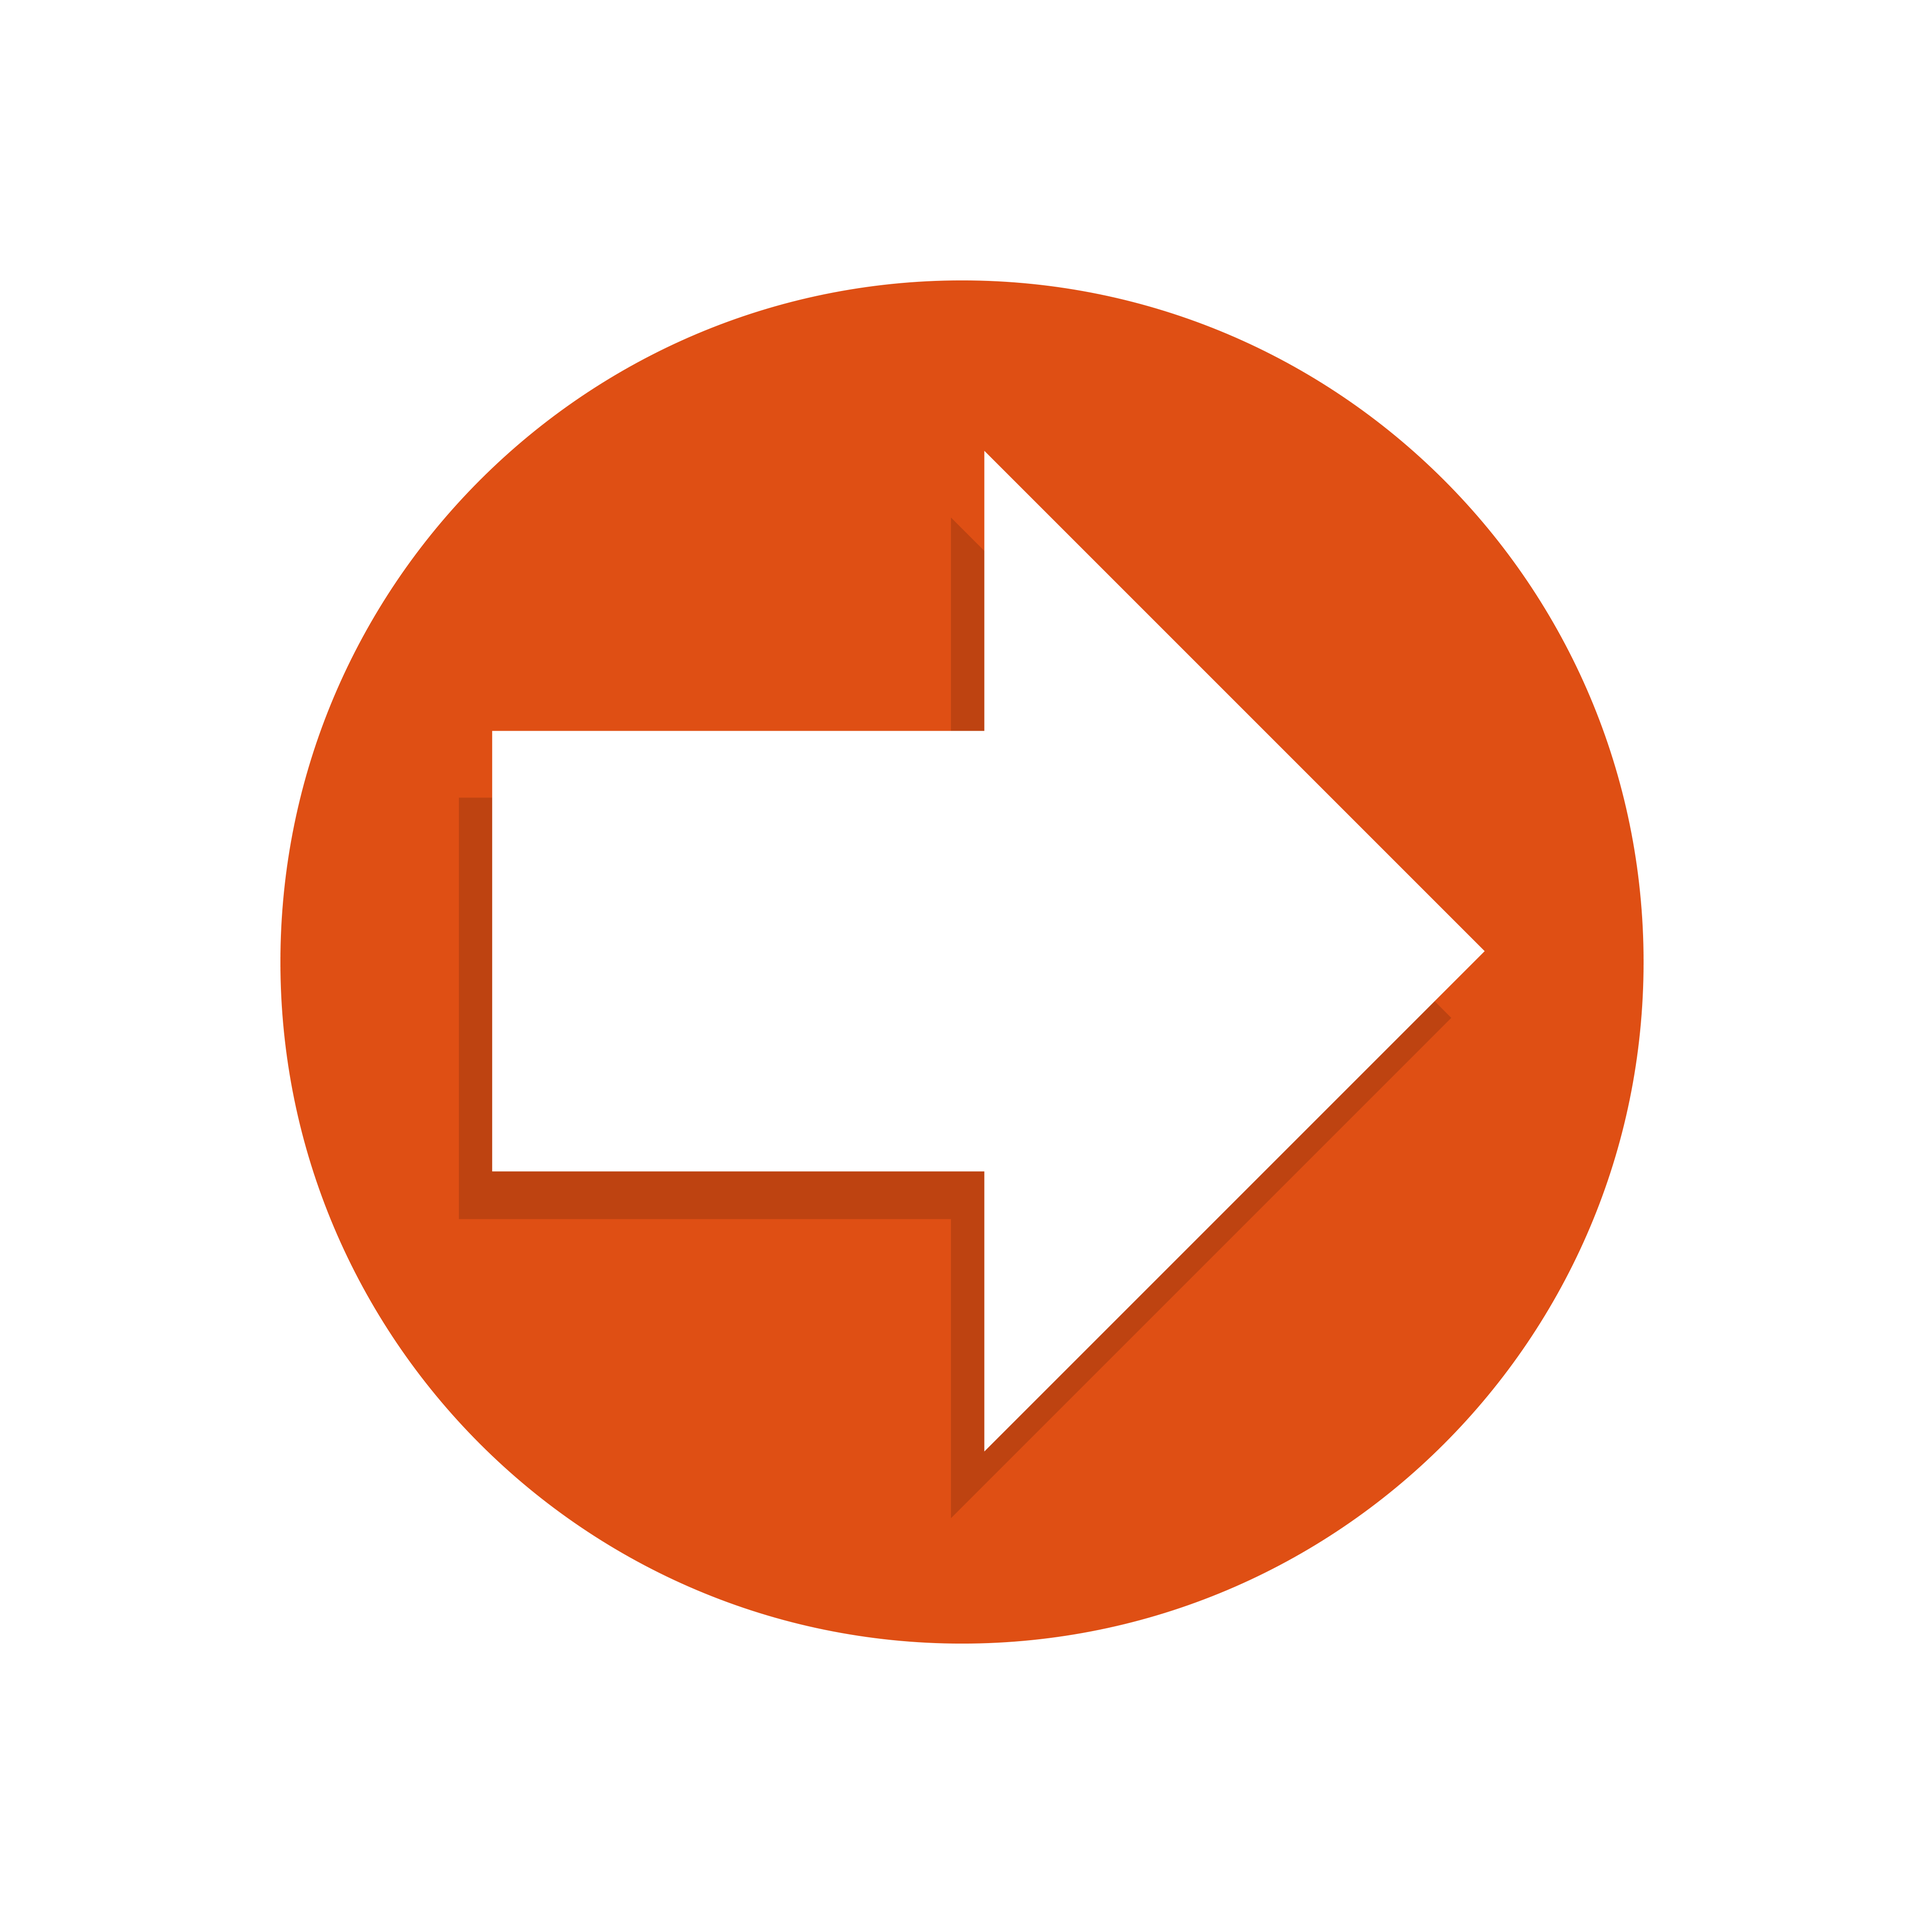
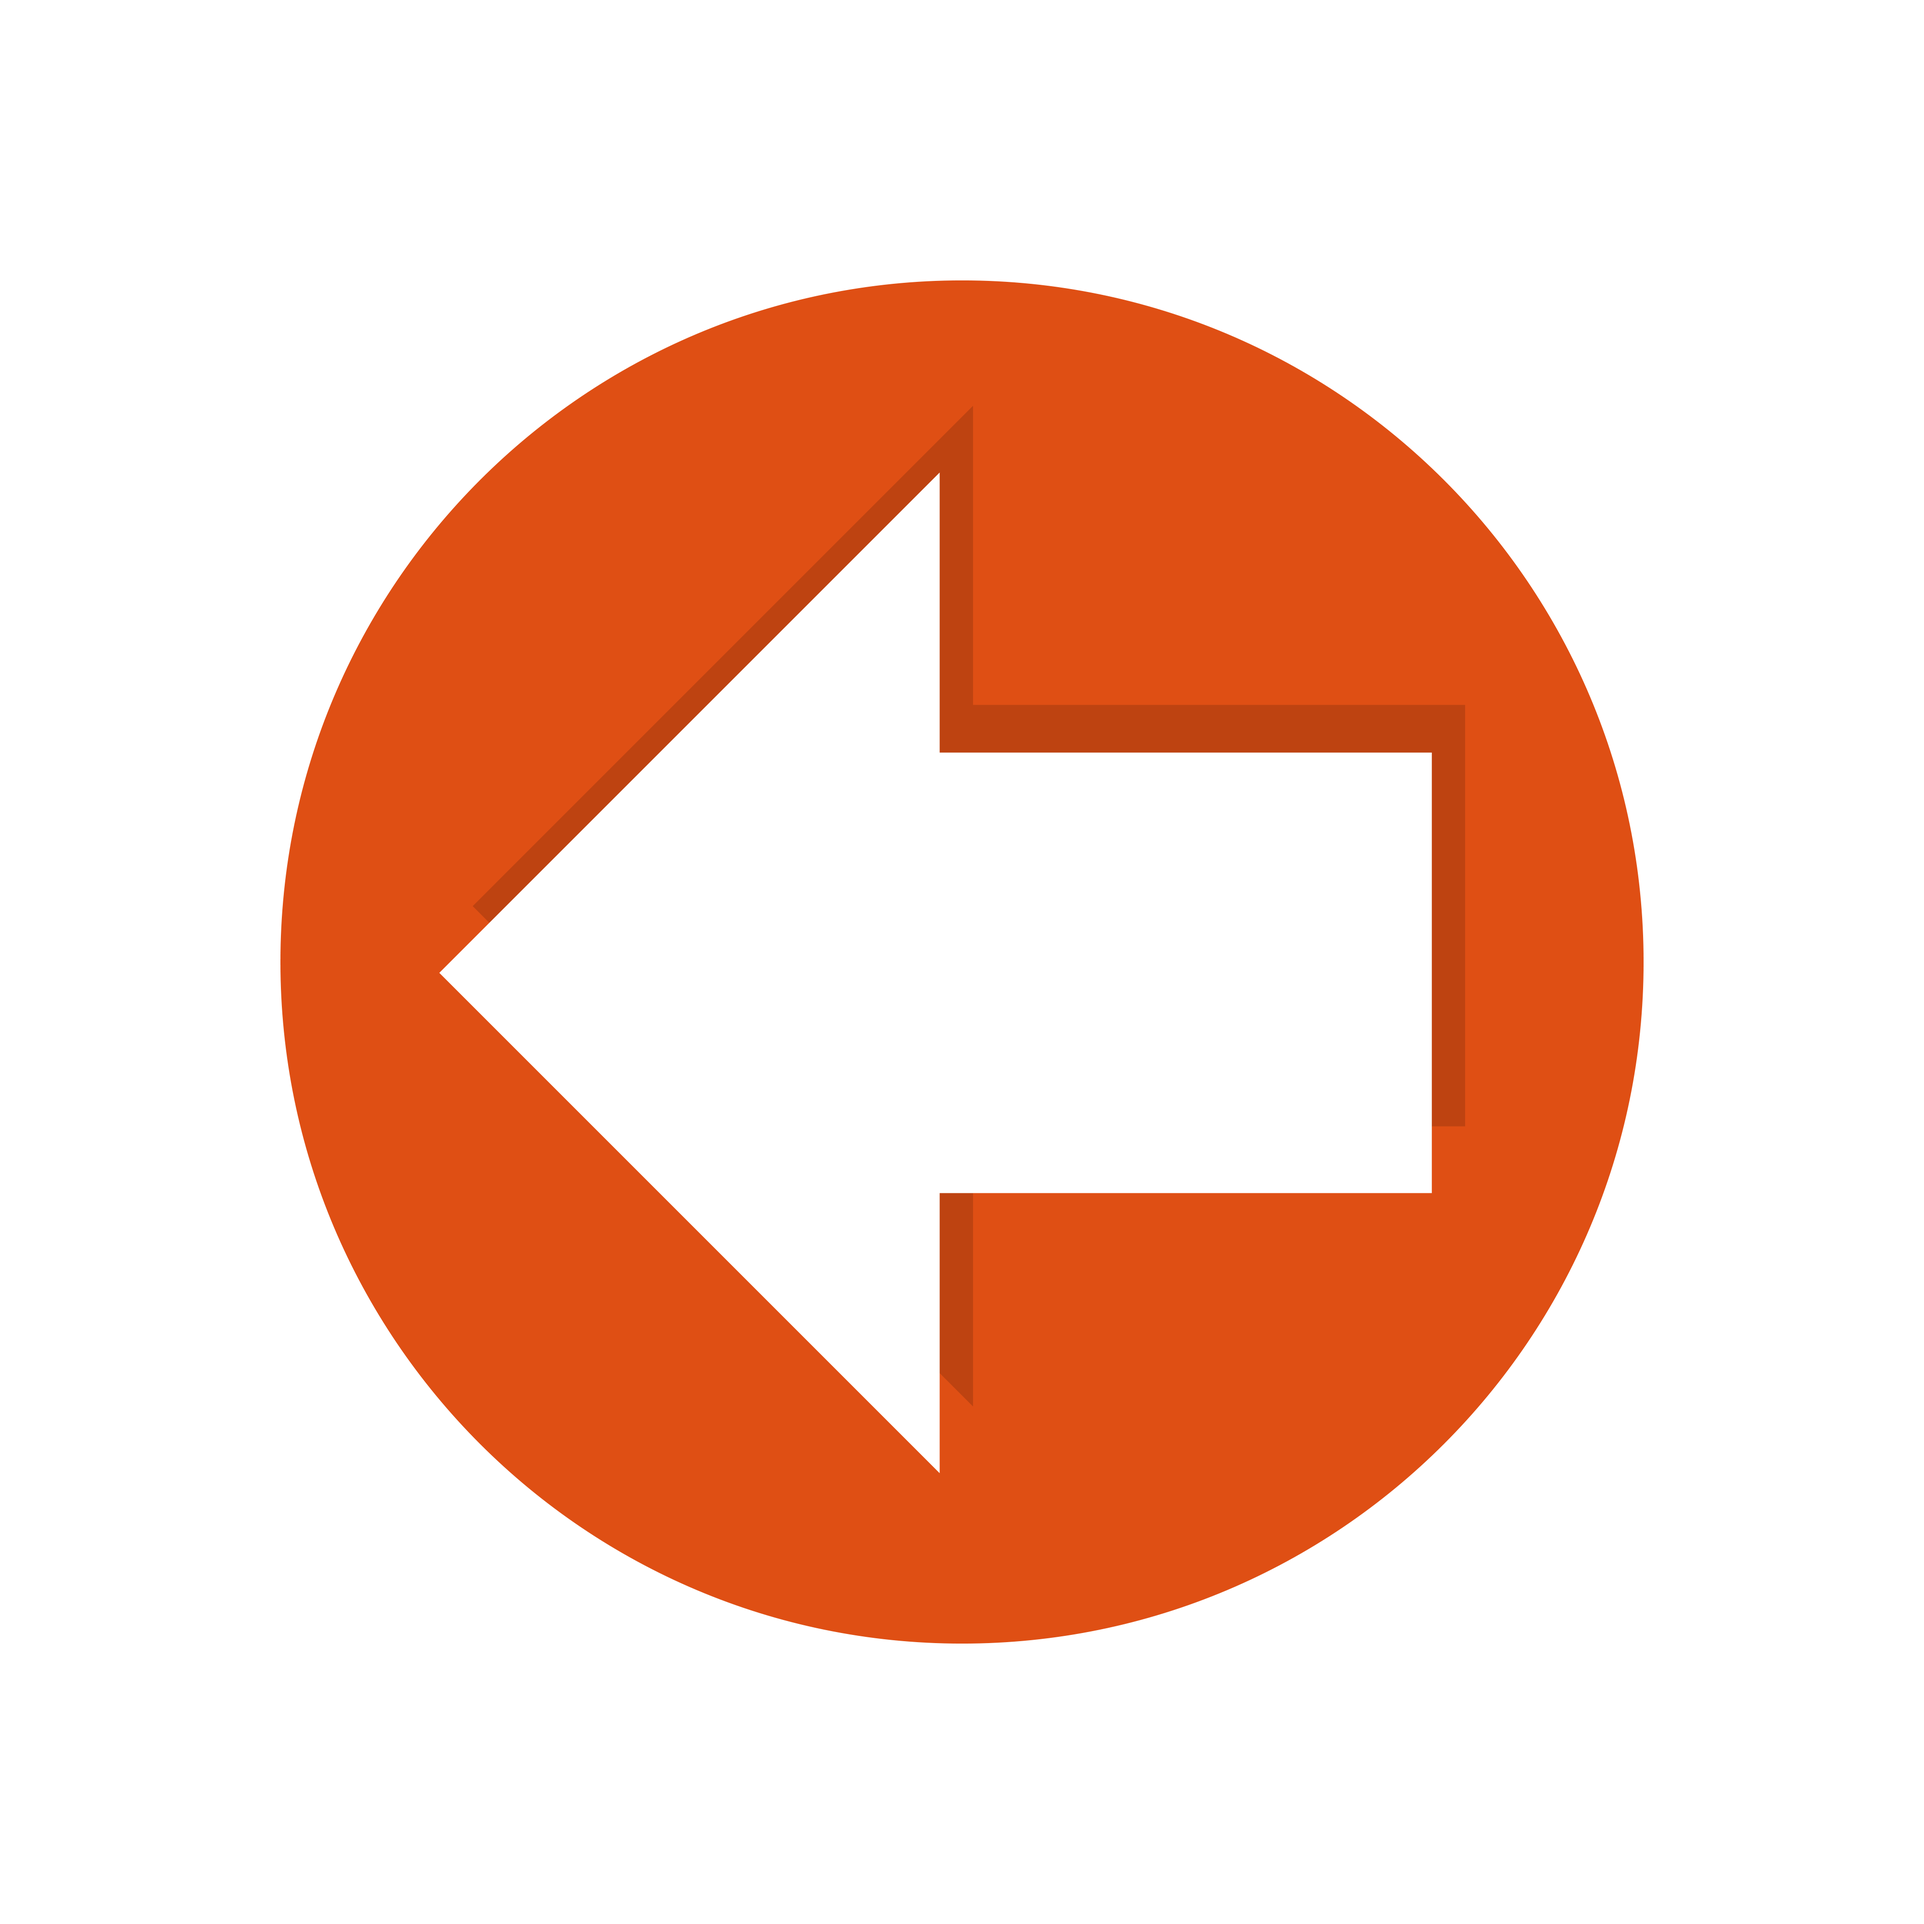
add arrows

Changed region(s): [[0.2188, 0.2188, 0.7812, 0.7812]]

diff --git a/src/main/resources/database/bookstore/style.css b/src/main/resources/database/bookstore/style.css
@@ -77,6 +77,12 @@
 .sign{
     -fx-font-size:14;
 }
+
+.page{
+    -fx-font-size:18;
+    -fx-font-family: "Stencil";
+    /*-fx-text-fill:#e0e5de;*/
+}
 .image-view{
    -fx-cursor: hand;
 }

diff --git a/src/main/java/database/bookstore/viewController/AdminPanelController.java b/src/main/java/database/bookstore/viewController/AdminPanelController.java
@@ -12,6 +12,7 @@ import javafx.fxml.FXML;
 import javafx.scene.Node;
 import javafx.scene.control.*;
 import javafx.scene.control.cell.PropertyValueFactory;
+import javafx.scene.text.Text;
 import javafx.stage.Stage;
 
 import java.io.IOException;
@@ -83,7 +84,8 @@ public class AdminPanelController {
     private TableColumn<User, Boolean> userTableIsManager;
 
     private boolean isAddMood = true;
-
+    @FXML
+    private Text Page;
     @FXML
     public void initialize() {
         orderTableOrderId.setCellValueFactory(new PropertyValueFactory<>("ID"));
@@ -287,6 +289,27 @@ public class AdminPanelController {
         }
     }
 
+    @FXML
+    protected void onLeftArrowClick() {
+        try {
+            int page = Integer.parseInt(Page.getText());
+            Page.setText(String.valueOf(page == 1 ? 1:page-1));
+        } catch (Exception e) {
+            Alert alert = new Alert(Alert.AlertType.ERROR, e.getMessage(), ButtonType.OK);
+            alert.showAndWait();
+        }
+    }
+
+    @FXML
+    protected void onRightArrowClick() {
+        try {
+            int page = Integer.parseInt(Page.getText());
+            Page.setText(String.valueOf(page+1));
+        } catch (Exception e) {
+            Alert alert = new Alert(Alert.AlertType.ERROR, e.getMessage(), ButtonType.OK);
+            alert.showAndWait();
+        }
+    }
 
     public void changeMood(boolean isAddMood, Book b) {
         if (isAddMood) {

diff --git a/src/main/java/database/bookstore/viewController/HomeController.java b/src/main/java/database/bookstore/viewController/HomeController.java
@@ -42,6 +42,8 @@ public class HomeController {
     private TableColumn<Book, String> Authors;
     @FXML
     private TableColumn<Book, String> Year;
+    @FXML
+    private Text Page;
 
     @FXML
     public void initialize() throws SQLException {
@@ -171,6 +173,28 @@ public class HomeController {
             stage.setResizable(false);
             stage.show();
             ((Stage) ((Node) (event.getSource())).getScene().getWindow()).close();
+        } catch (Exception e) {
+            Alert alert = new Alert(Alert.AlertType.ERROR, e.getMessage(), ButtonType.OK);
+            alert.showAndWait();
+        }
+    }
+
+    @FXML
+    protected void onLeftArrowClick() {
+        try {
+            int page = Integer.parseInt(Page.getText());
+            Page.setText(String.valueOf(page == 1 ? 1:page-1));
+        } catch (Exception e) {
+            Alert alert = new Alert(Alert.AlertType.ERROR, e.getMessage(), ButtonType.OK);
+            alert.showAndWait();
+        }
+    }
+
+    @FXML
+    protected void onRightArrowClick() {
+        try {
+            int page = Integer.parseInt(Page.getText());
+            Page.setText(String.valueOf(page+1));
         } catch (Exception e) {
             Alert alert = new Alert(Alert.AlertType.ERROR, e.getMessage(), ButtonType.OK);
             alert.showAndWait();

diff --git a/src/main/java/database/bookstore/viewController/ReportsController.java b/src/main/java/database/bookstore/viewController/ReportsController.java
@@ -1,4 +1,32 @@
 package database.bookstore.viewController;
 
+import javafx.fxml.FXML;
+import javafx.scene.control.Alert;
+import javafx.scene.control.ButtonType;
+import javafx.scene.text.Text;
+
 public class ReportsController {
+    @FXML
+    private Text Page;
+    @FXML
+    protected void onLeftArrowClick() {
+        try {
+            int page = Integer.parseInt(Page.getText());
+            Page.setText(String.valueOf(page == 1 ? 1:page-1));
+        } catch (Exception e) {
+            Alert alert = new Alert(Alert.AlertType.ERROR, e.getMessage(), ButtonType.OK);
+            alert.showAndWait();
+        }
+    }
+
+    @FXML
+    protected void onRightArrowClick() {
+        try {
+            int page = Integer.parseInt(Page.getText());
+            Page.setText(String.valueOf(page+1));
+        } catch (Exception e) {
+            Alert alert = new Alert(Alert.AlertType.ERROR, e.getMessage(), ButtonType.OK);
+            alert.showAndWait();
+        }
+    }
 }
